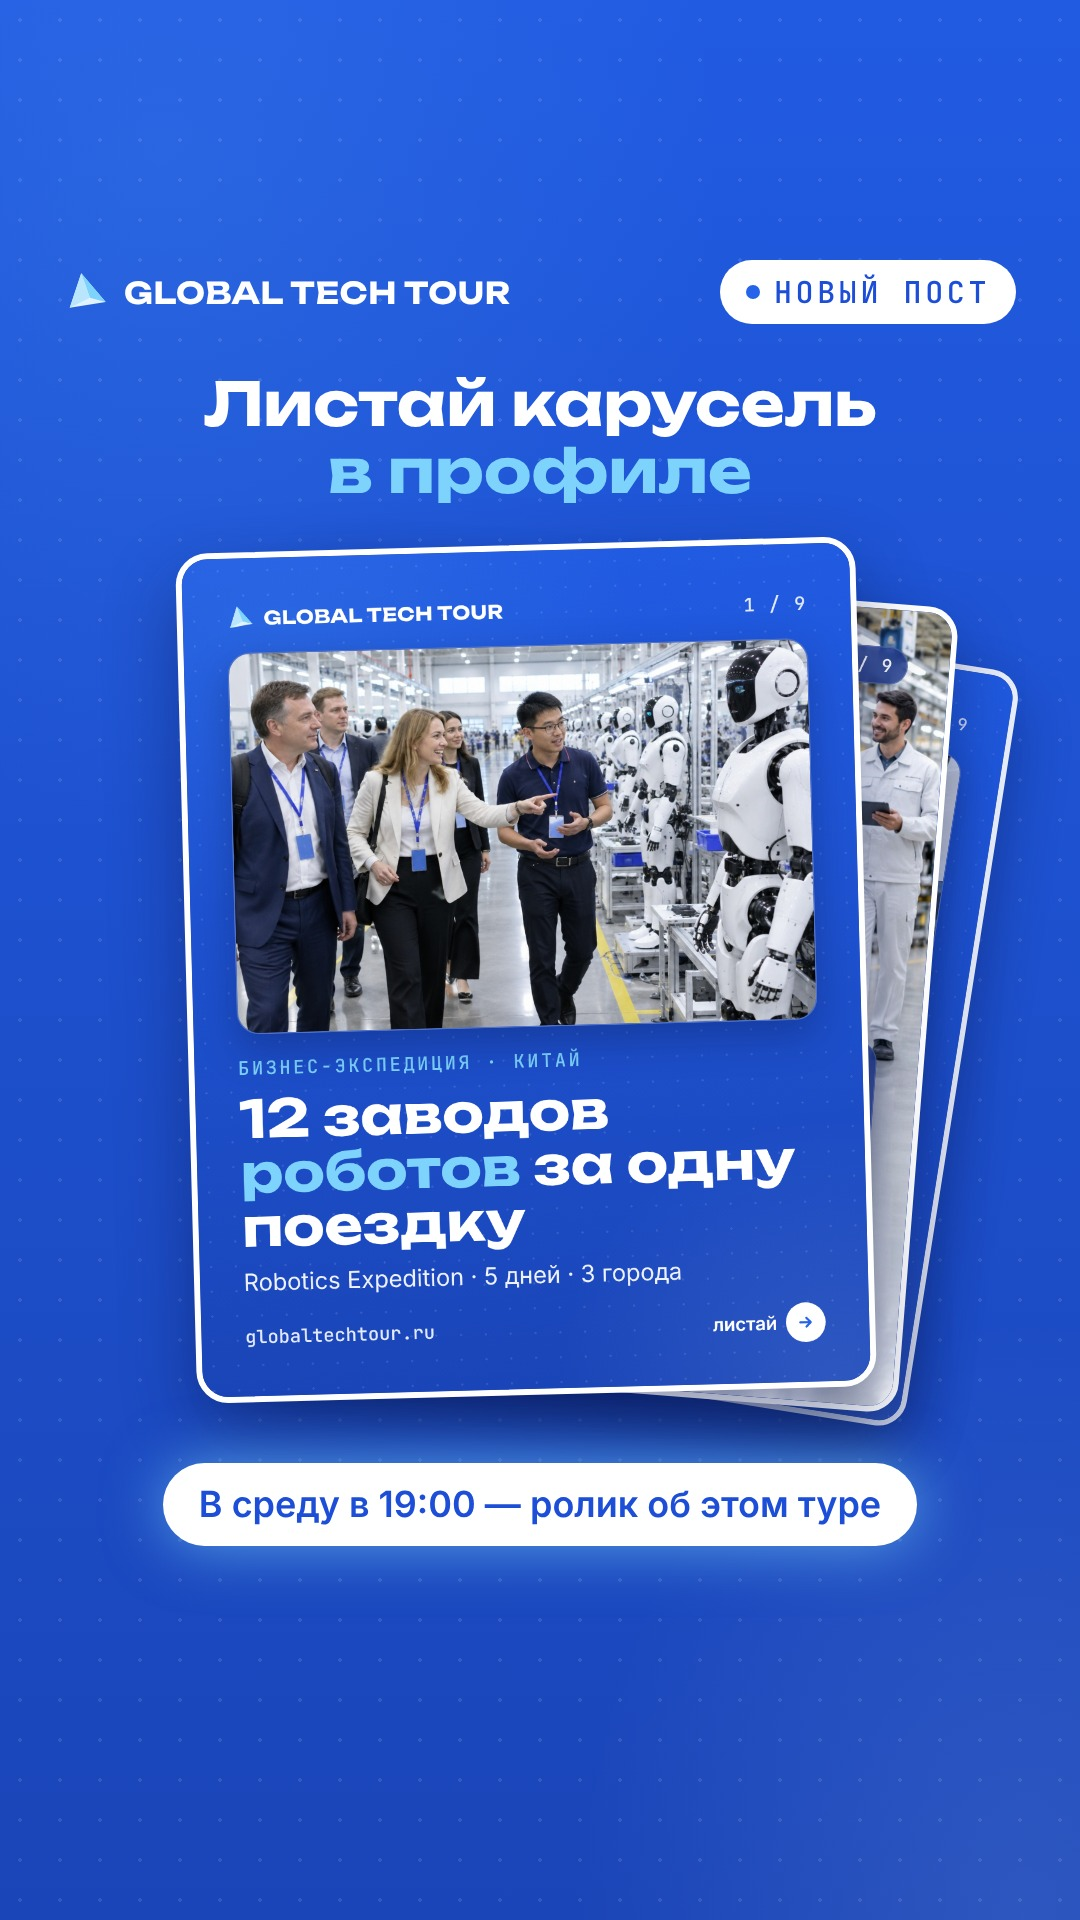
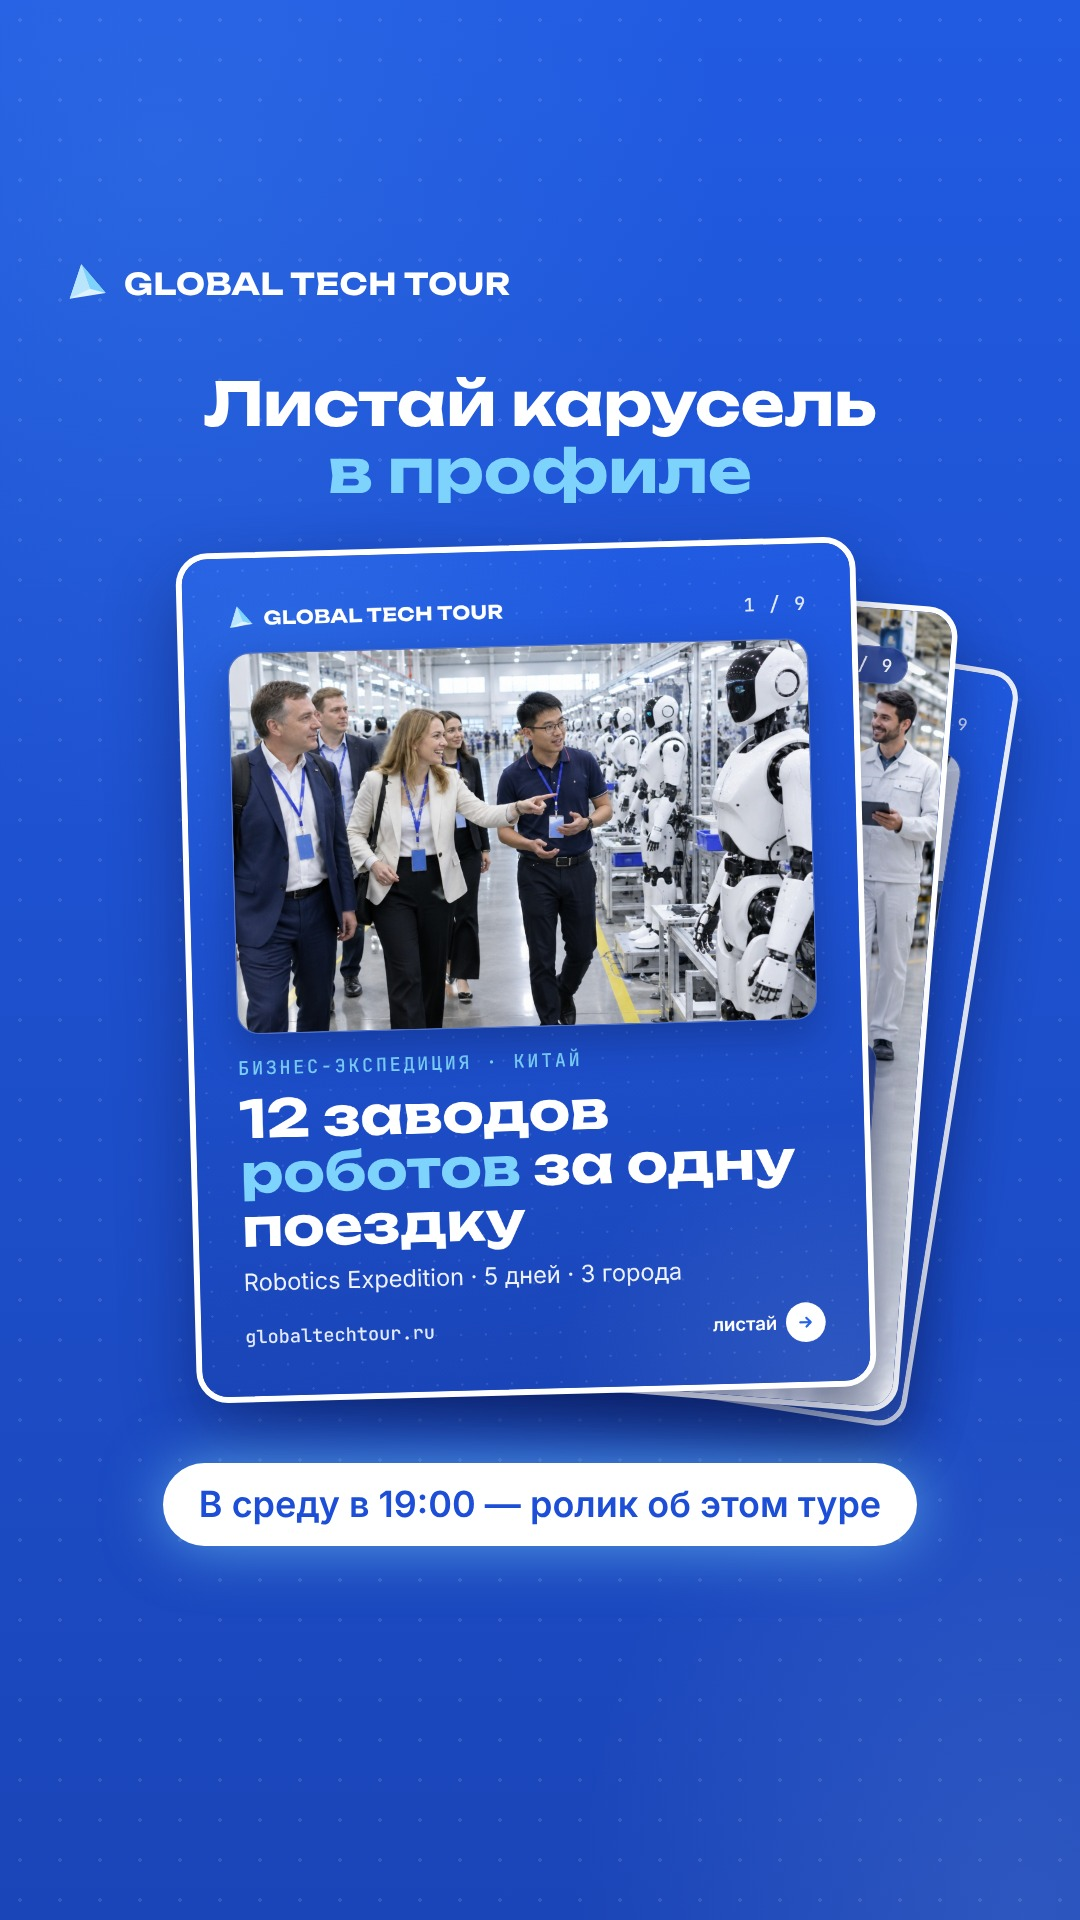
Stories-анонсы GTT и Aura: без плашки «Новый пост» (перерисованы), правило — не использовать нигде
Claude-Session: https://claude.ai/code/session_01GWbvgKxue3PjjbbHEP4BVJ

Changed region(s): [[0.6722, 0.125, 0.9472, 0.1875], [0.0611, 0.125, 0.4889, 0.1562]]

diff --git a/GTT/INSTAGRAM/RULES.md b/GTT/INSTAGRAM/RULES.md
@@ -46,6 +46,8 @@
   `python3 CONTROL/TOOLS/instagram_plan.py GTT --apply` ставит даты в имена, пишет тексты Reels и Stories, рендерит анонсы и
   календарь; руками календарь не правим — меняем `PLAN.json` и запускаем заново.
 - Stories-анонс — композиция `StoryAnnounce` в VIDEO-HUB (`npm run announce -- <имя>`), кредитов не тратит.
+- Плашку «Новый пост» (и «Новый Reels») на картинках и Stories не ставим нигде [П, 12.10.2026: «название новый пост убрать
+  с картинки и больше нигде не использовать»]; шаблоны VIDEO-HUB без поля `kicker` плашку не рисуют.
 - **Подпись под каруселью** [П, 11.10.2026] — собирается из всех слайдов (`carousel_import.py GTT --captions`): заголовок,
   «Листай карусель →», цифра, маршрут, «что вы поймёте», «почему с нами», «что входит», «для кого», призыв, хештеги темы и
   страны + `#БизнесЭкспедиция #GTT #GlobalTechTour #Техтуризм`. Правленную руками подпись команда не трогает.

diff --git a/AURA/INSTAGRAM/RULES.md b/AURA/INSTAGRAM/RULES.md
@@ -67,6 +67,8 @@ Upbeat Corporate (бодрые посты) и Inspiring Ambient Motivation (сп
 - Финальный слайд: «Пиши в личные сообщения или оставляй заявку на сайте» + «Рассчитаем стоимость и окупаемость»,
   кнопка — aura-robotics.ru [П, 10.10.2026].
 - Reels и Stories — по `../VIDEO.md` и `CONTROL/VIDEO-RULES.md`.
+- Плашку «Новый пост» (и «Новый Reels») на картинках и Stories не ставим нигде [П, 12.10.2026: «название новый пост убрать
+  с картинки и больше нигде не использовать»]; шаблоны VIDEO-HUB без поля `kicker` плашку не рисуют.
 - Stories для репоста в личный аккаунт: в шапке `story_mentions: ["ostap.dotsenko"]` — публикатор отмечает аккаунт
   (Instagram API `user_tags`), у @ostap.dotsenko появляется кнопка «Добавить в свою историю» [П, 12.10.2026:
   «Сделай пост сторис для Ауры, чтобы я репост мог сделать далее»]. Отмечать можно только публичные аккаунты.
